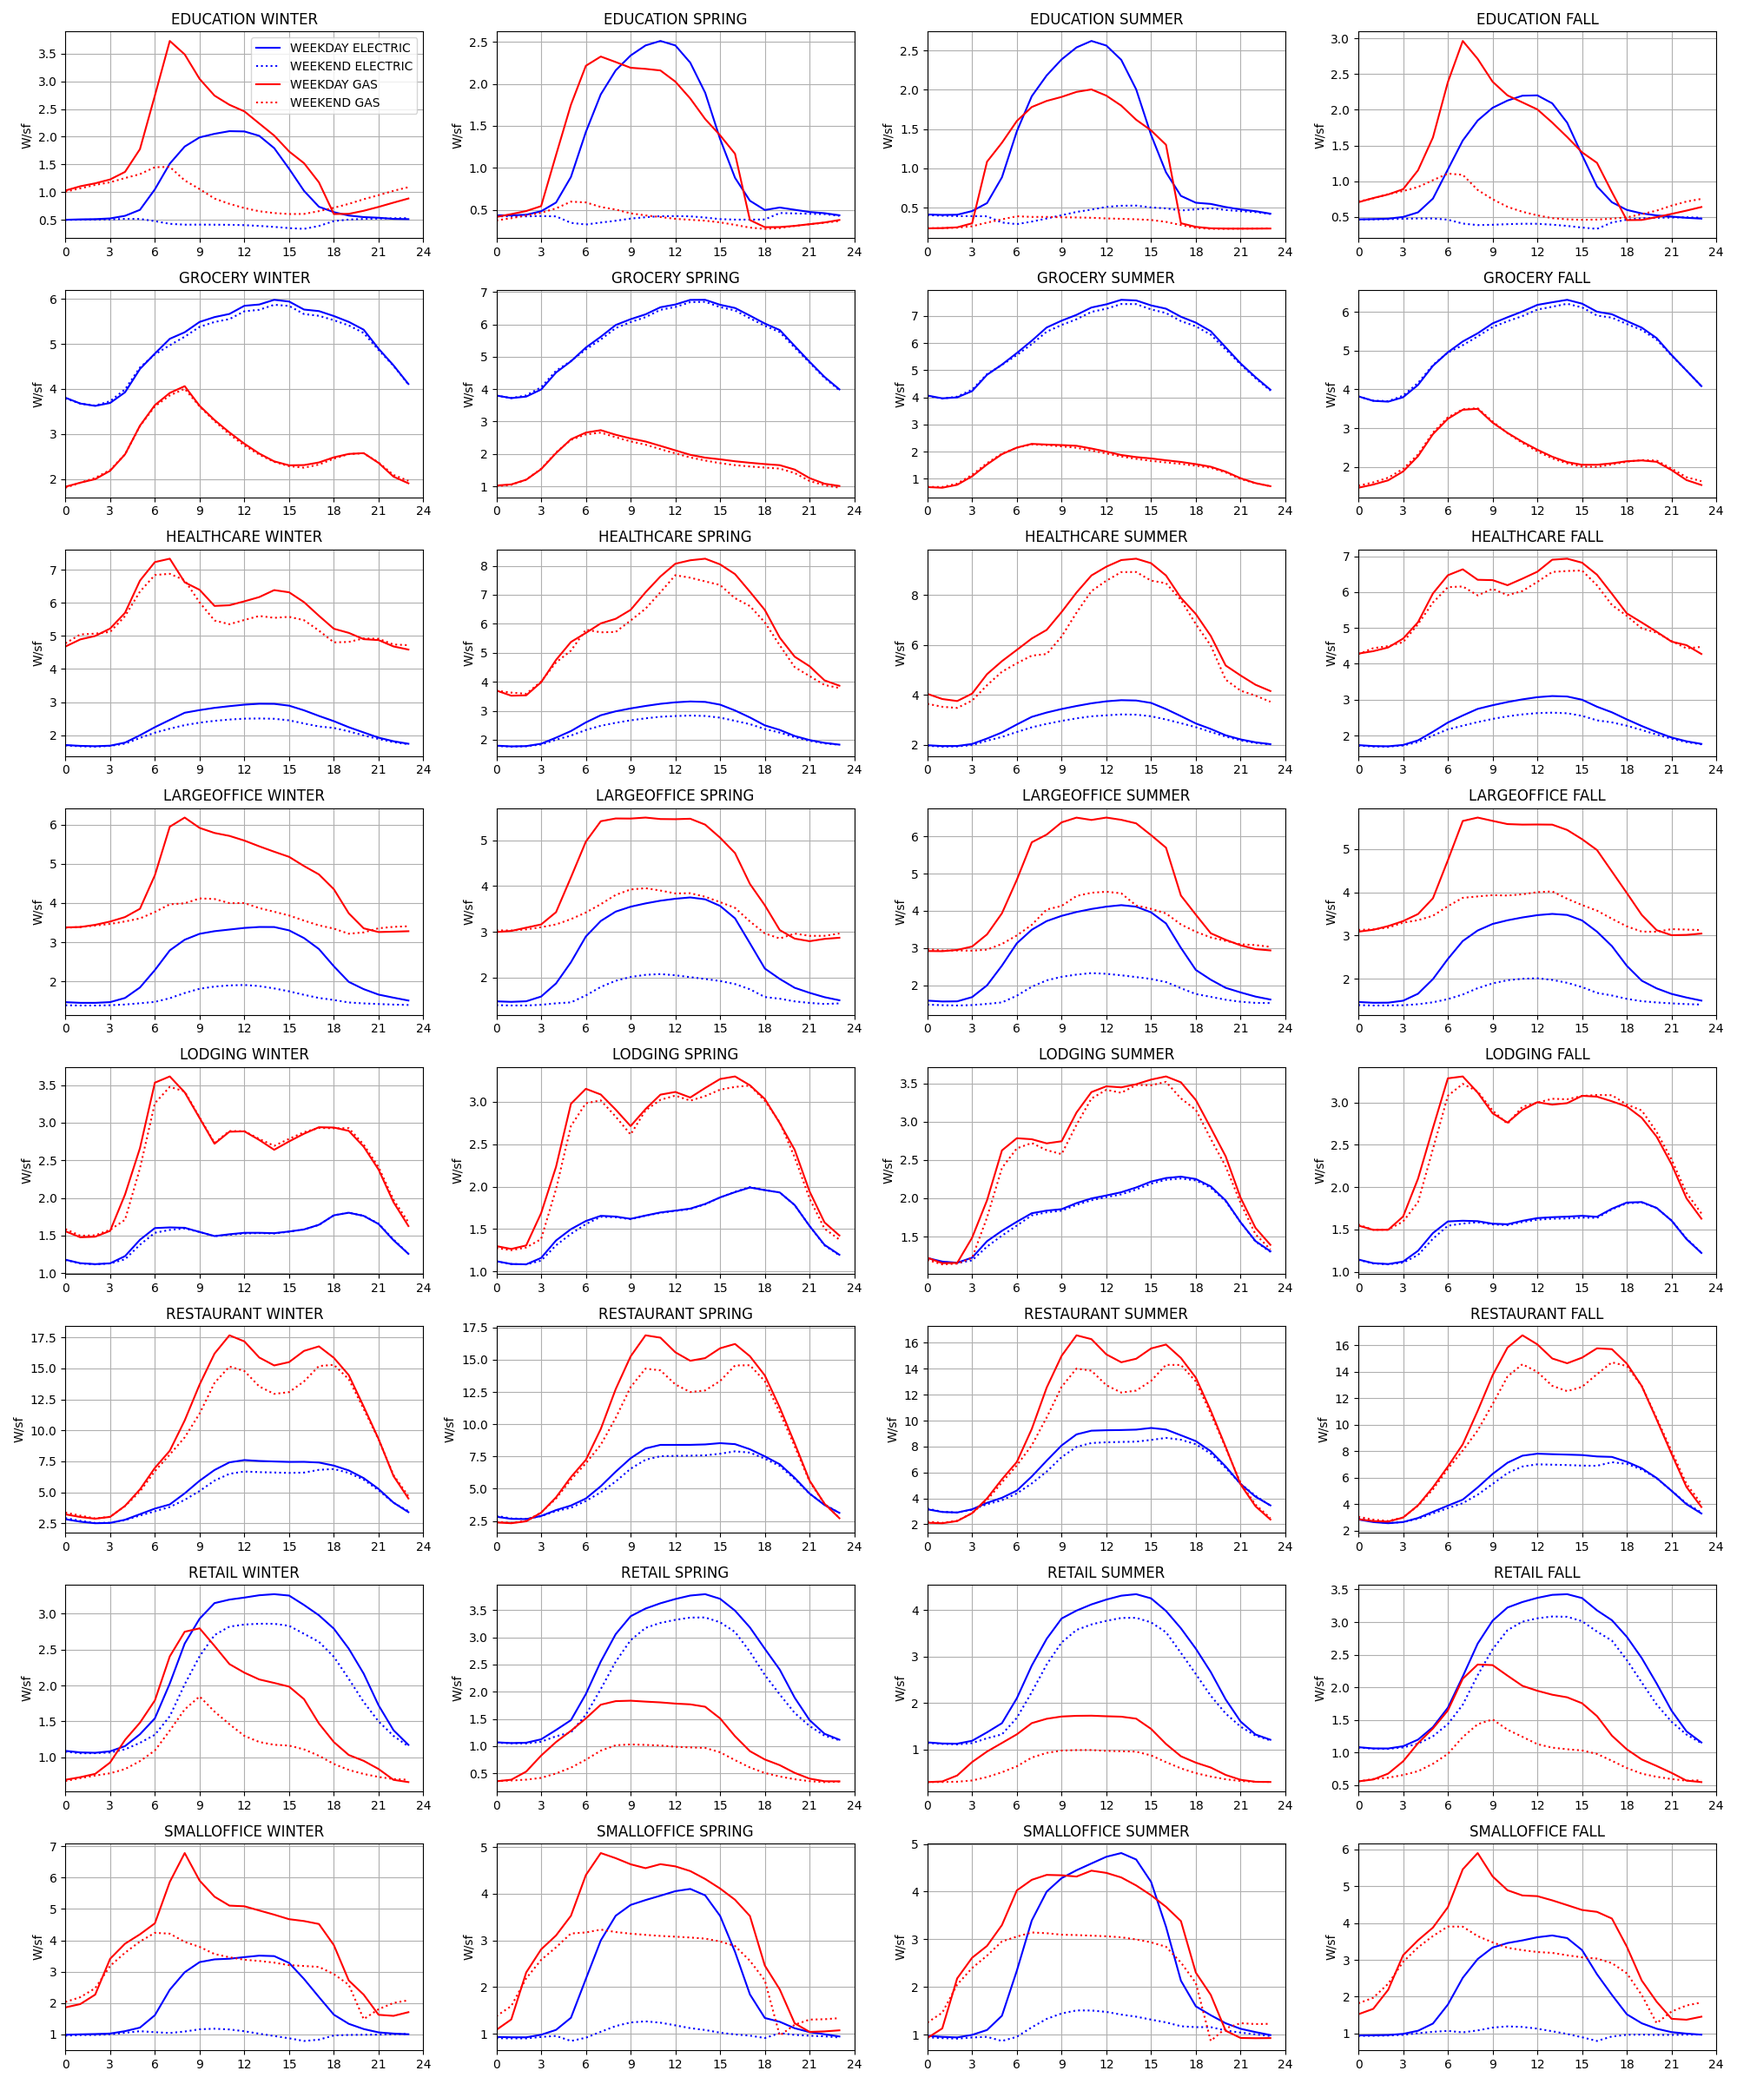
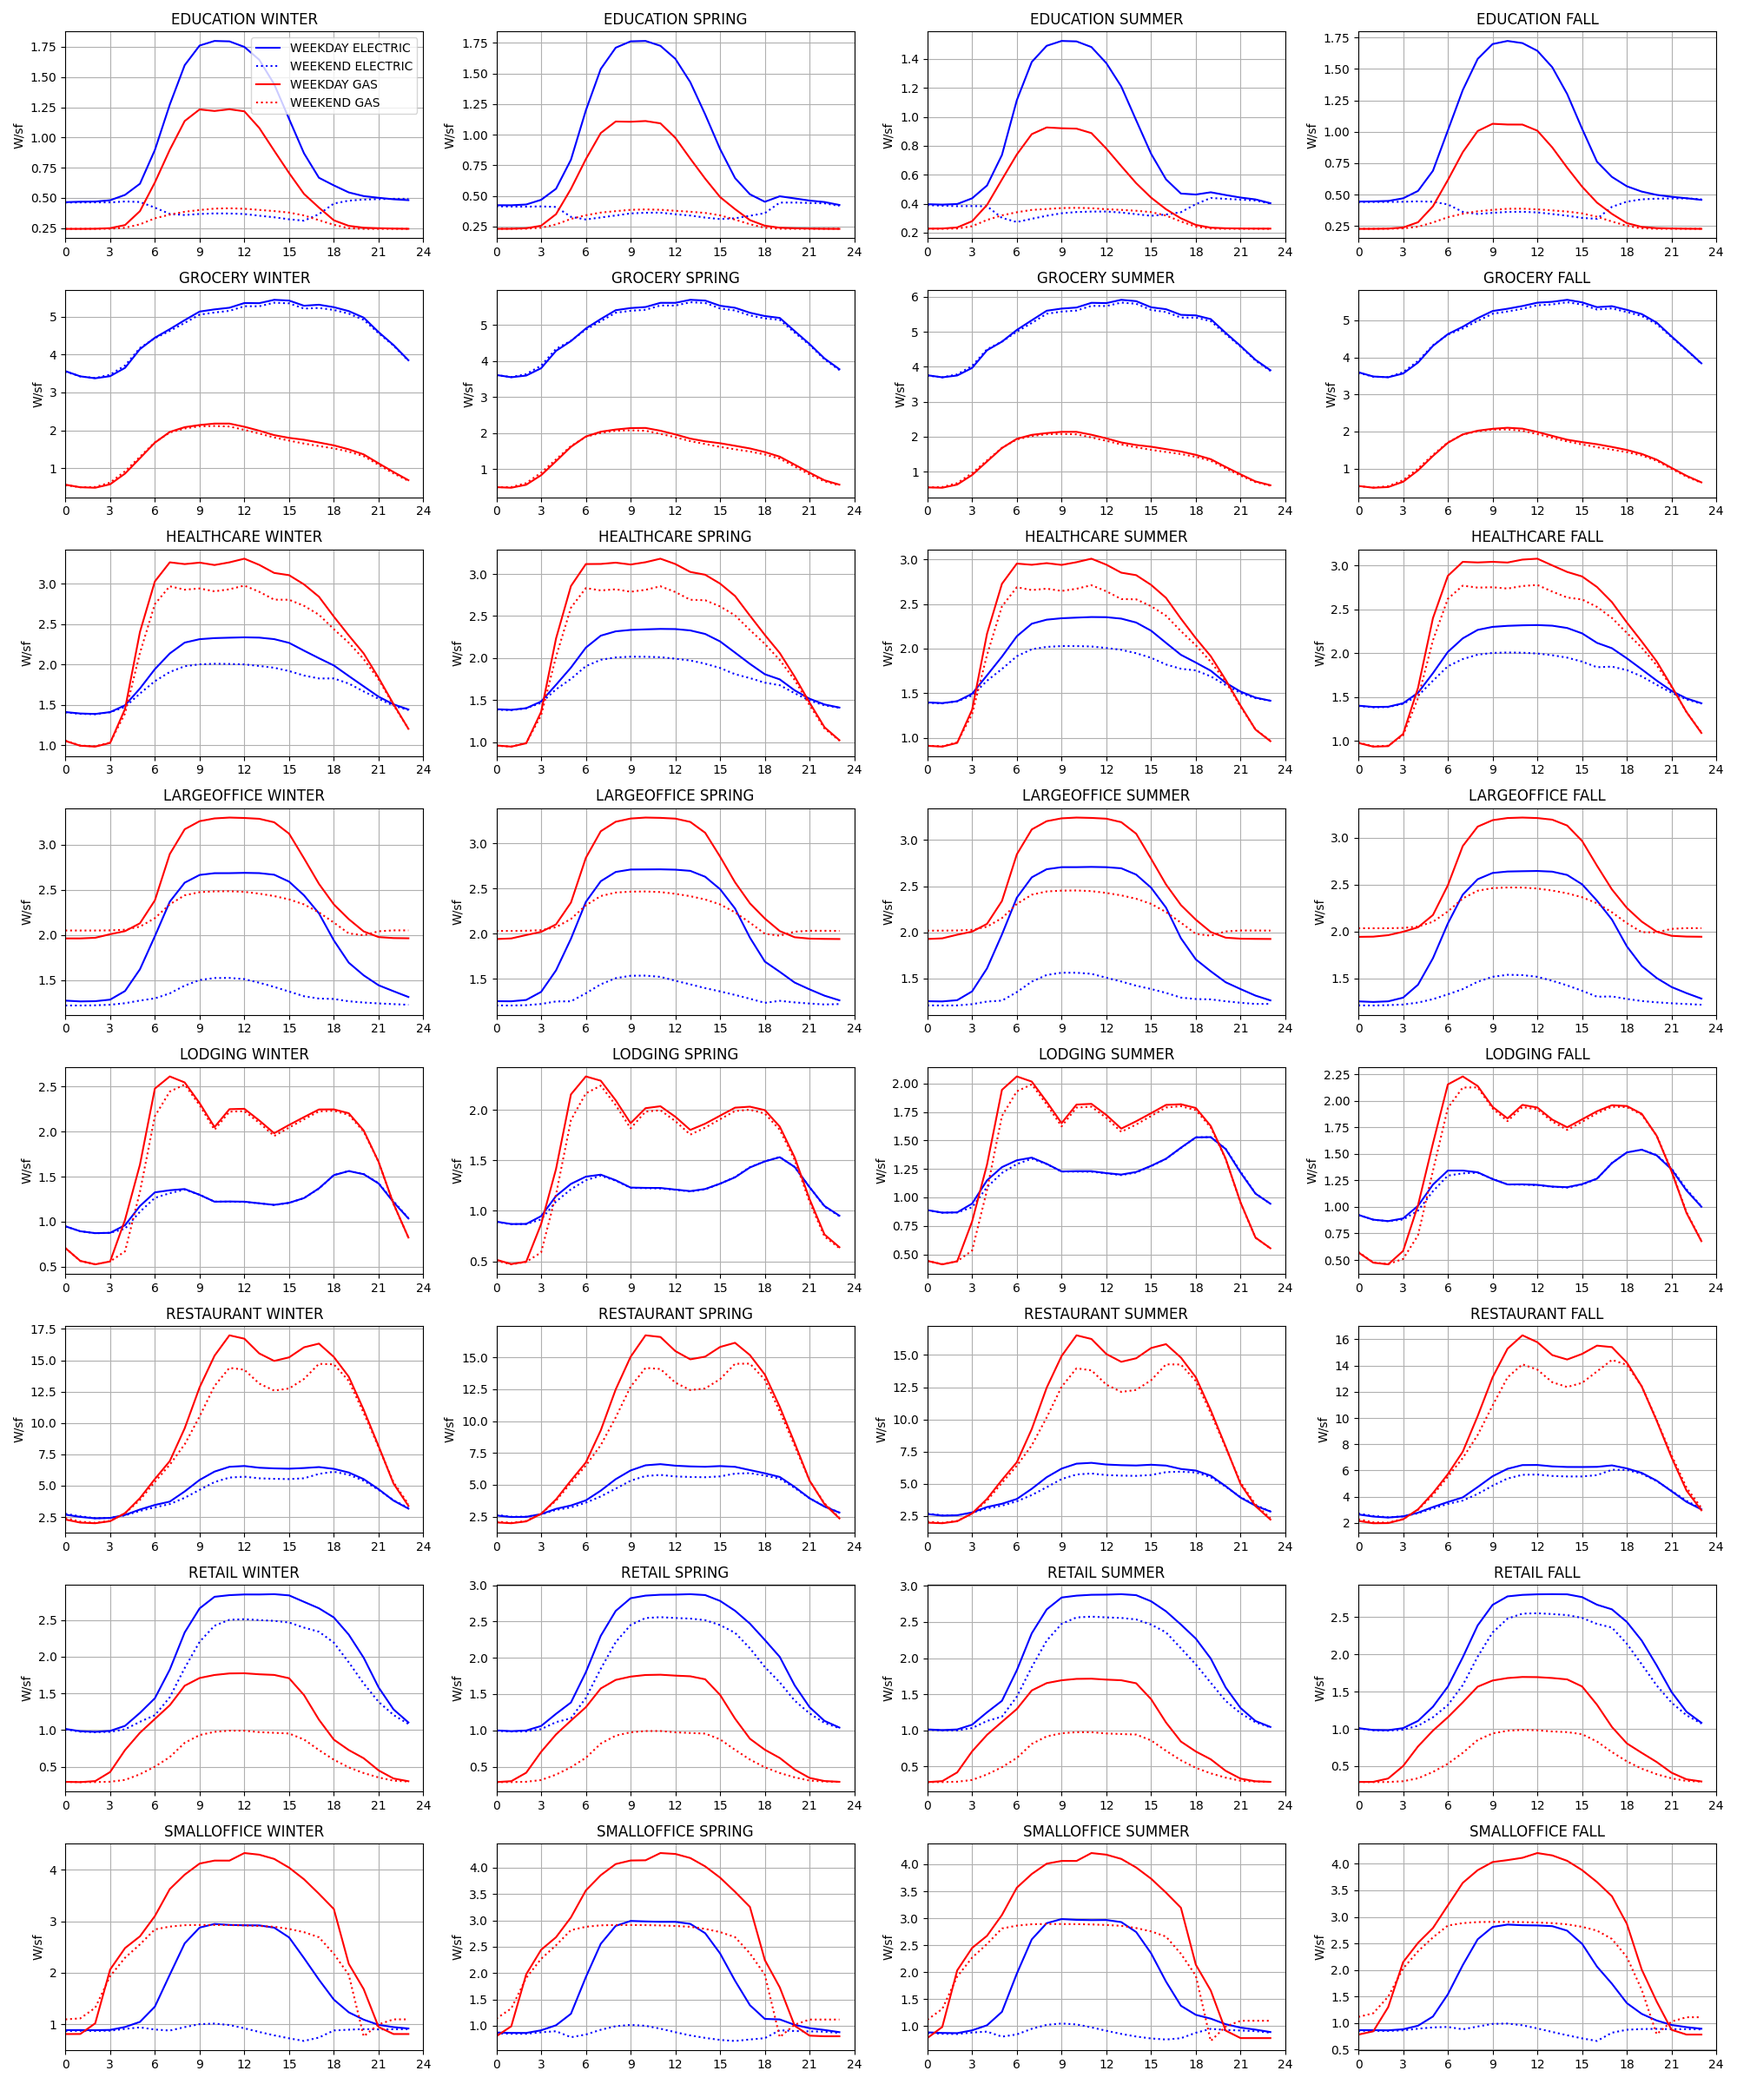
Correct CEUS gas loadshapes

diff --git a/module/powerflow/data/update_loadshapes.py b/module/powerflow/data/update_loadshapes.py
@@ -17,6 +17,12 @@ load['hour'] = load.index.get_level_values(2).hour
 load.reset_index(inplace=True)
 load.set_index(['segment','season','fuel','weekday','hour'],inplace=True)
 load.drop('datetime',axis=1,inplace=True)
+load.sort_index(inplace=True)
+
+# fix gas units
+for segment in load.index.get_level_values(0).unique():
+    for season in load.loc[segment].index.get_level_values(0).unique():
+        load.loc[segment,season,'GAS']['load'] = load.loc[segment,season,'GAS']['load'] / 3.412
 load['load'] = load['load'].round(4)
 
 # plot loads
@@ -47,4 +53,4 @@ loadshapes['weekday'] = ["WEEKDAY" if x else "WEEKEND" for x in loadshapes['week
 loadshapes['season'] = [["WINTER","SPRING","SUMMER","FALL"][x-1] for x in loadshapes['season']]
 loadshapes.columns = ["building_type","season","fuel","daytype","hour","load"]
 loadshapes.set_index(["building_type","season","fuel","daytype","hour"],inplace=True)
-loadshapes.to_csv("../building_loadshapes.csv",index=True,header=True)
+loadshapes.to_csv("building_loadshapes.csv",index=True,header=True)

diff --git a/module/powerflow/data/building_loadshapes.py b/module/powerflow/data/building_loadshapes.py
@@ -16,7 +16,6 @@ ncols = len(seasons)
 fig,axes = plt.subplots(figsize=(5*ncols,3*nrows),nrows=nrows,ncols=ncols)
 
 column = {"WINTER":0,"SPRING":1,"SUMMER":2,"FALL":3}
-scale = {"GAS":3.412,"ELECTRIC":1.0}
 style = {"GAS":"r","ELECTRIC":"b"}
 color = {"WEEKDAY":"-","WEEKEND":":"}
 
@@ -28,7 +27,7 @@ for row,building_type in enumerate(building_types):
 		leg = []
 		for fuel in data.loc[(building_type,season)].index.get_level_values(0).unique():
 			for daytype in data.loc[(building_type,season,fuel)].index.get_level_values(0).unique():
-				pl = (data.loc[(building_type,season,fuel,daytype)]/scale[fuel]).plot(ax = ax,
+				pl = (data.loc[(building_type,season,fuel,daytype)]).plot(ax = ax,
 					style = style[fuel]+color[daytype],
 					legend = (row==0 and column[season]==0))
 				leg.append(f"{daytype} {fuel}")
